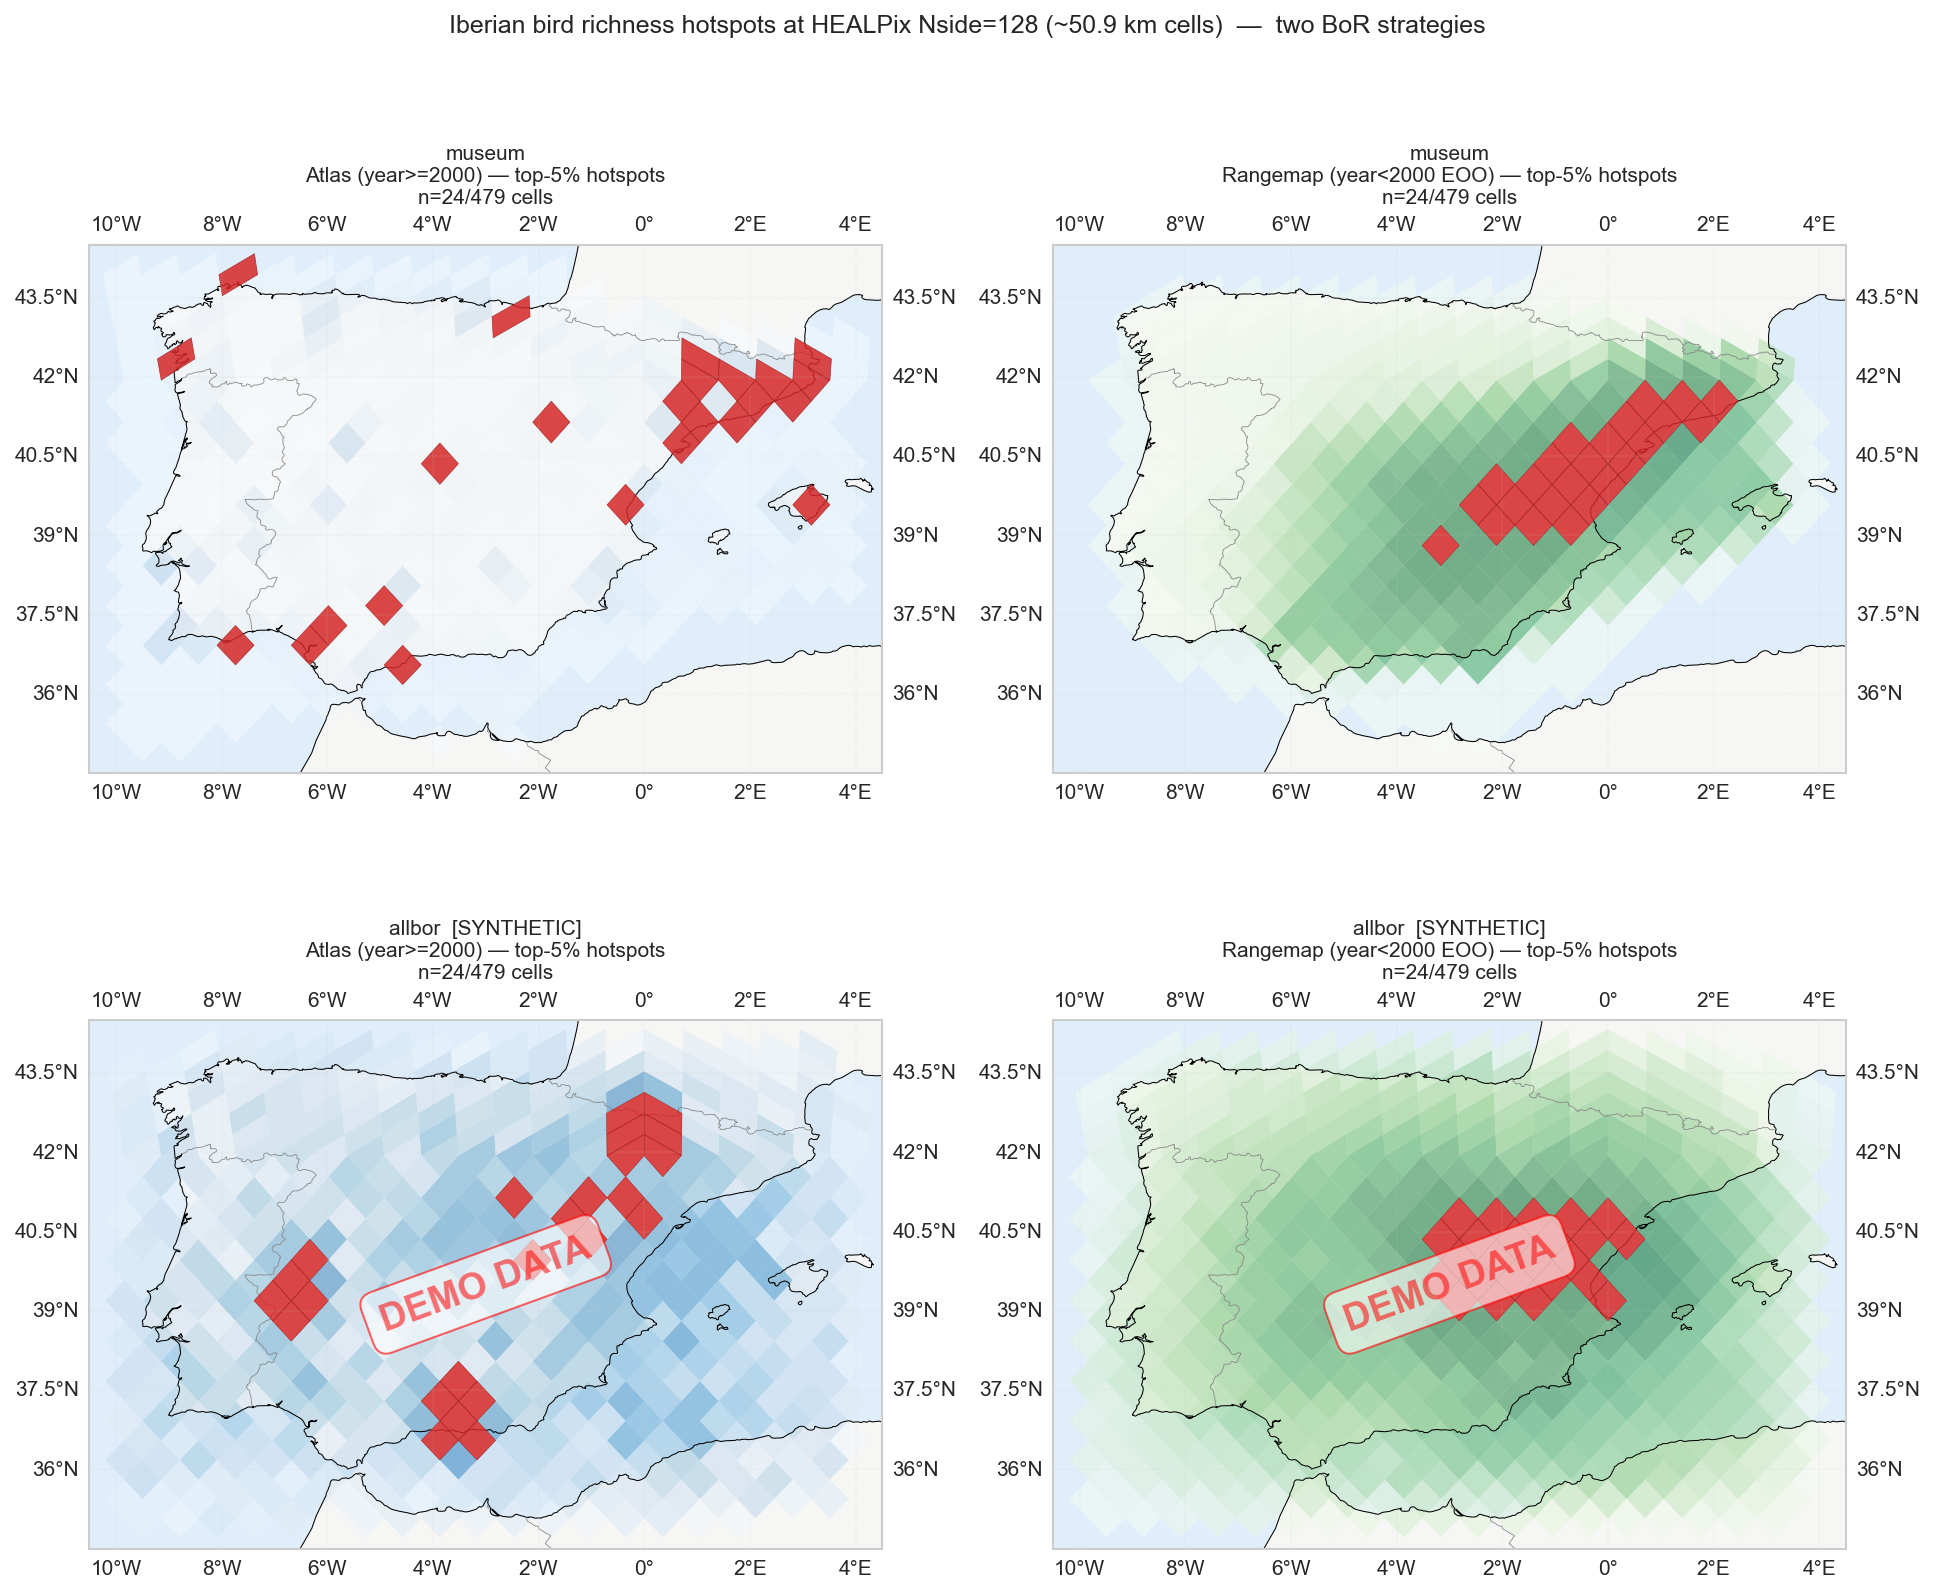
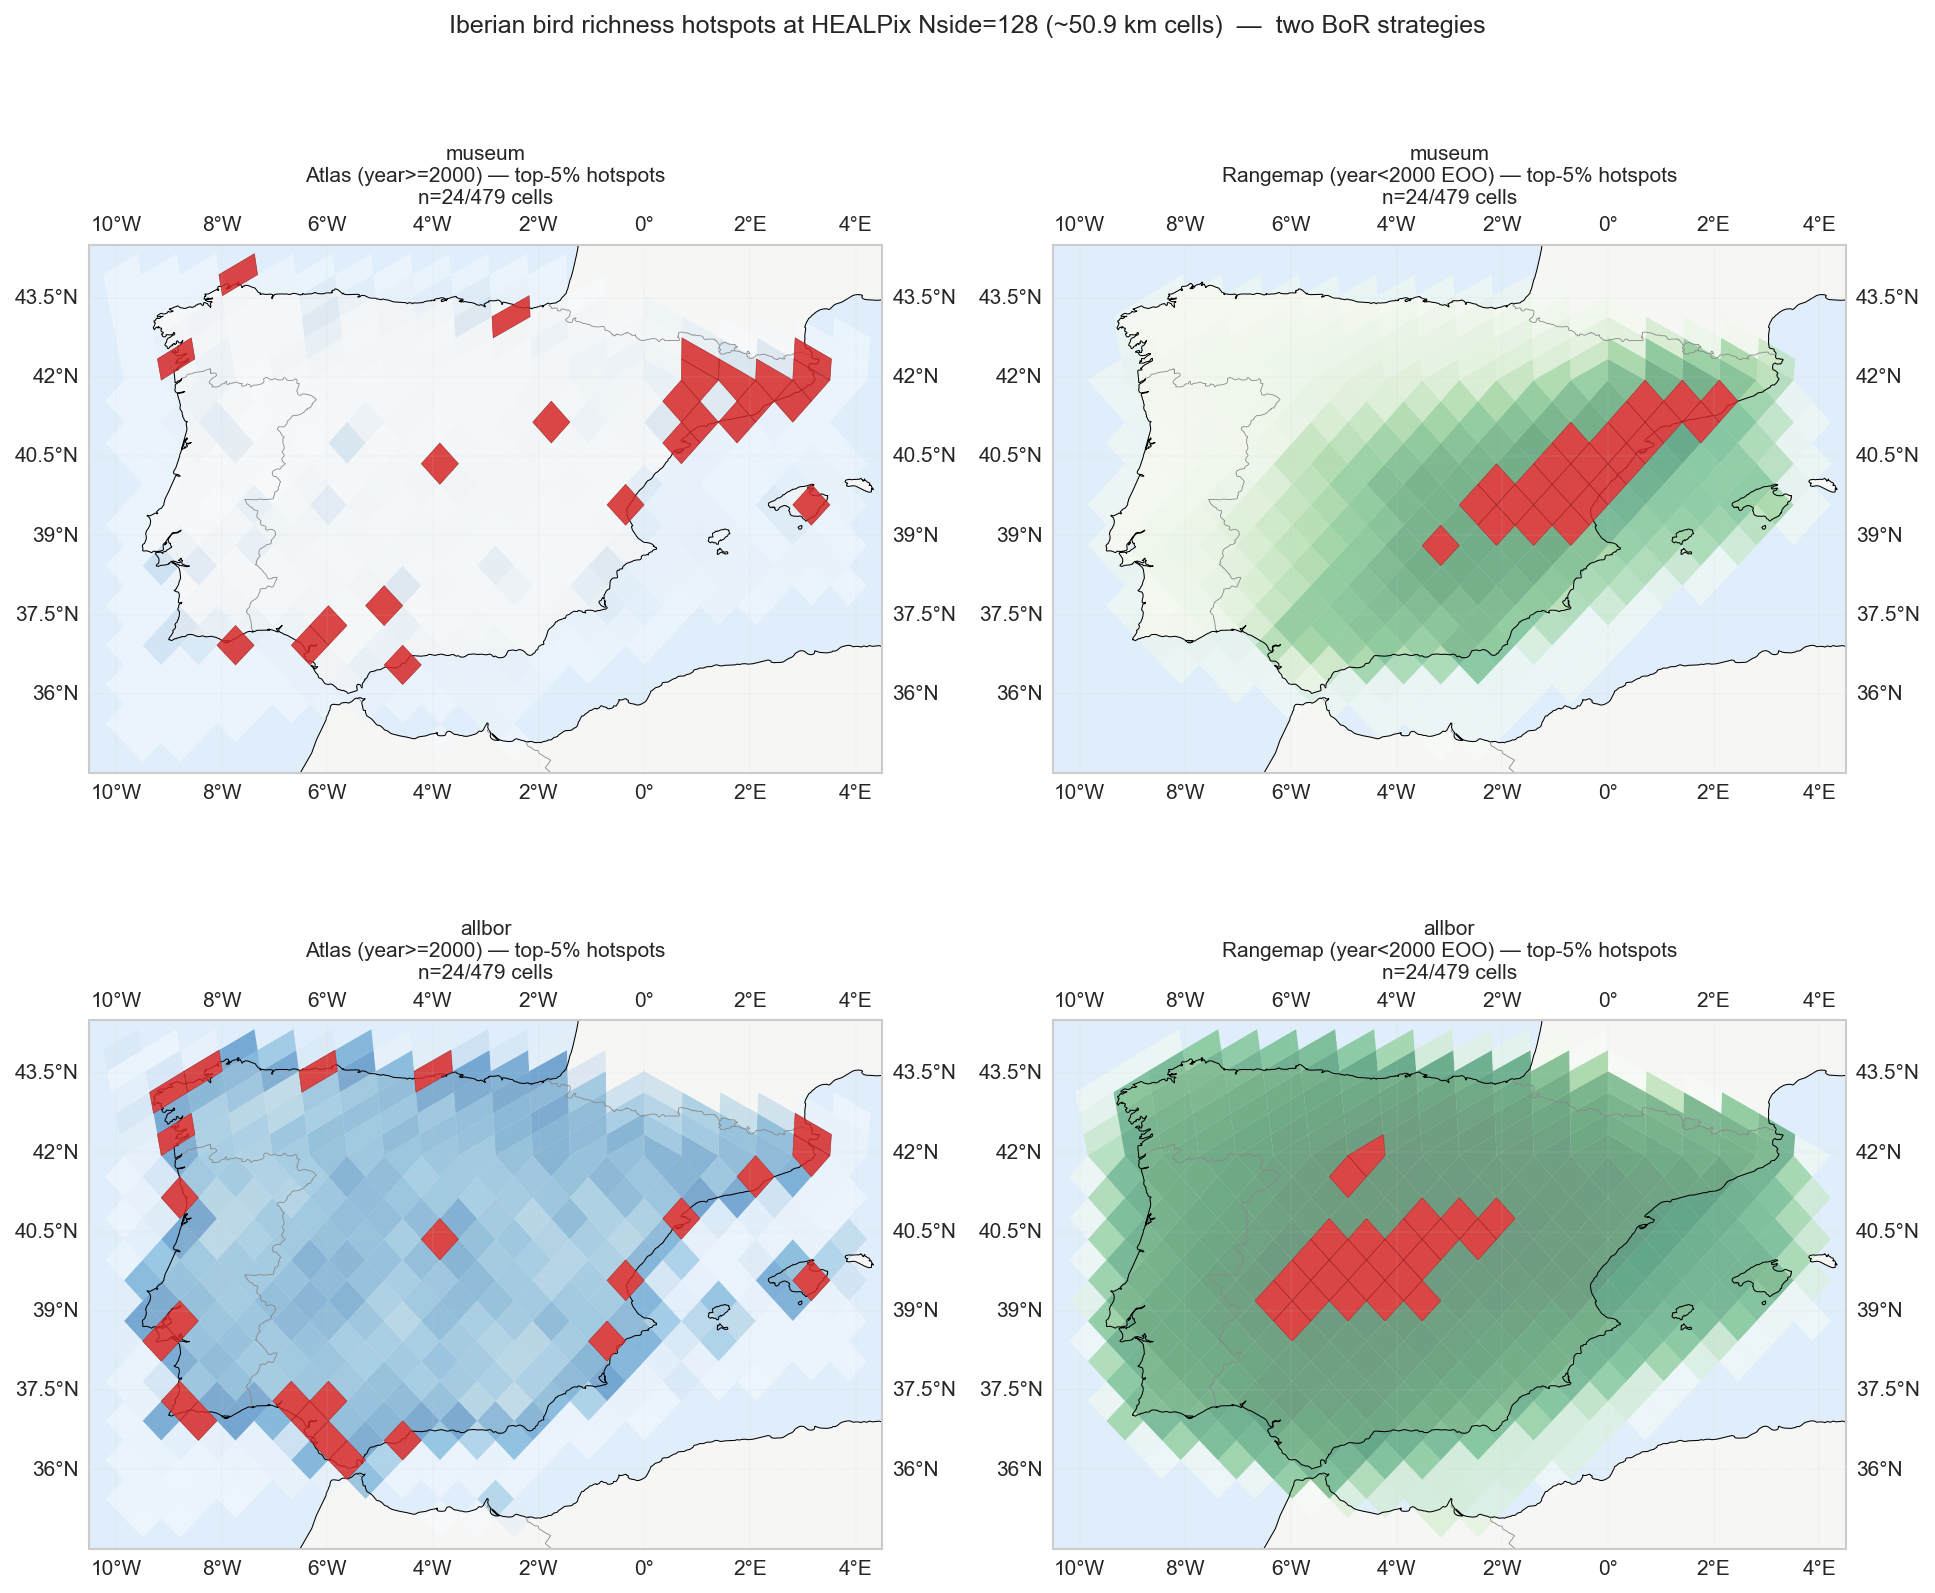
Streaming 02_data_clean to fix two-DOI allbor OOM + pipeline re-run
Switch load_gbif_csv to a chunked iterator (1 M rows/chunk) and fold
per-(strategy, Nside) (cell, species_id) pairs into numpy arrays via
per-chunk np.unique. Historical hull-build accumulates per-species
points. Peak resident is bounded by unique-pair count (~few hundred
MB) rather than the 6.5 GB allbor zip's row count (was ~10+ GB and
killed the kernel on 2026-05-22 — see memory note).

Verified on the two-DOI input: museum (999,958 records, 452 species)
+ allbor (61,703,393 records, 964 species) both produce
data/clean/richness_*.nc + species_eoo_polygons.parquet without OOM
in ~13 min wall-clock. Museum-strategy headline numbers match
dfc2daa exactly (numerical parity). Allbor headline at Nside 256
(H&J 0.25° equivalent): 97.8 % misidentified.

Also: move main_result.png legend to lower-right (was overlapping the
high-Nside replication curves).

diff --git a/notebooks/02_data_clean.py b/notebooks/02_data_clean.py
@@ -57,6 +57,7 @@
 # %%
 import json
 import zipfile
+from collections.abc import Iterator
 from datetime import date
 from pathlib import Path
 
@@ -170,15 +171,27 @@ report["n_cells_per_nside"] = {n: int(len(IBERIA_PIX[n])) for n in NSIDES}
 
 
 # %% [markdown]
-# ## GBIF zip loader
+# ## GBIF zip streaming reader
 #
-# Reads the SIMPLE_CSV inside a GBIF download zip (tab-separated despite
-# the name). Filters to the Iberia bbox and drops rows with missing
-# essentials. Returns one DataFrame for the strategy.
+# Streams the SIMPLE_CSV inside a GBIF download zip (tab-separated
+# despite the name) in chunks of 1 M rows. Each yielded chunk is already
+# NA-dropped on the essentials (species, lat, lon, year) and filtered to
+# the Iberia bbox, so downstream consumers can fold chunks into per-cell
+# and per-species accumulators without ever materialising the whole
+# dataset in memory.
+#
+# Streaming matters because the all-BoR allbor download is ~50–65 M
+# rows (~6.5 GB compressed, ~25–30 GB uncompressed TSV). A one-shot
+# `pd.read_csv` peaks at >10 GB resident and has been observed to crash
+# the kernel on 16 GB laptops (see `memory/pipeline_clean_oom_risk.md`).
 
 # %%
-def load_gbif_csv(zip_path: Path) -> pd.DataFrame:
-    """Extract and read the SIMPLE_CSV inside a GBIF download zip."""
+GBIF_CHUNKSIZE = 1_000_000
+
+
+def iter_gbif_chunks(zip_path: Path,
+                     chunksize: int = GBIF_CHUNKSIZE) -> Iterator[pd.DataFrame]:
+    """Yield NA-dropped, bbox-filtered chunks of a GBIF SIMPLE_CSV zip."""
     if not zip_path.exists():
         raise FileNotFoundError(
             f"Expected GBIF zip at {zip_path} — re-run "
@@ -190,7 +203,7 @@ def load_gbif_csv(zip_path: Path) -> pd.DataFrame:
             raise RuntimeError(f"No CSV inside {zip_path}")
         member = candidates[0]
         with zf.open(member) as src:
-            df = pd.read_csv(
+            reader = pd.read_csv(
                 src, sep="\t",
                 usecols=lambda c: c in {
                     "gbifID", "species", "decimalLatitude",
@@ -199,53 +212,41 @@ def load_gbif_csv(zip_path: Path) -> pd.DataFrame:
                 },
                 dtype={"gbifID": "Int64", "year": "Int64",
                        "countryCode": "string"},
-                low_memory=False, on_bad_lines="skip",
+                chunksize=chunksize, on_bad_lines="skip",
             )
-    # Drop rows missing the essentials (species, lat, lon, year — we need
-    # year for the modern/historical split).
-    df = df.dropna(
-        subset=["species", "decimalLatitude", "decimalLongitude", "year"]
-    ).copy()
-    lon = df["decimalLongitude"].astype(float)
-    lat = df["decimalLatitude"].astype(float)
-    in_bbox = (
-        (lon >= IBERIA_LON_MIN) & (lon <= IBERIA_LON_MAX)
-        & (lat >= IBERIA_LAT_MIN) & (lat <= IBERIA_LAT_MAX)
-    )
-    df = df.loc[in_bbox].reset_index(drop=True)
-    return df
+            for raw in reader:
+                df = raw.dropna(
+                    subset=["species", "decimalLatitude",
+                            "decimalLongitude", "year"]
+                )
+                if df.empty:
+                    continue
+                lon = df["decimalLongitude"].astype(float)
+                lat = df["decimalLatitude"].astype(float)
+                in_bbox = (
+                    (lon >= IBERIA_LON_MIN) & (lon <= IBERIA_LON_MAX)
+                    & (lat >= IBERIA_LAT_MIN) & (lat <= IBERIA_LAT_MAX)
+                )
+                df = df.loc[in_bbox]
+                if df.empty:
+                    continue
+                yield df.reset_index(drop=True)
 
 
 # %% [markdown]
 # ## Per-strategy helpers
 #
-# - `occurrences_to_richness` — per Nside, count distinct species per
-#   HEALPix-NESTED cell. Used for the modern (atlas) frame.
 # - `species_hull` — convex hull of a (lon, lat) point array with
 #   pragmatic fallbacks for n < 3.
 # - `hull_to_cells` — `healpix_geo.nested.polygon_coverage` of the hull.
 # - `historical_cell_counts` — per Nside, per-cell count of species
 #   whose EOO hull covers the cell, restricted to the Iberian cell set.
+#
+# Modern (atlas) per-cell richness is computed inline in the per-strategy
+# streaming loop below, by folding chunked `(cell, species_id)` pairs into
+# per-Nside numpy arrays and then deduplicating once at the end.
 
 # %%
-def occurrences_to_richness(df: pd.DataFrame, nside: int) -> pd.DataFrame:
-    """Per-cell unique-species count at one Nside."""
-    depth = DEPTHS[nside]
-    cells = hp_nested.lonlat_to_healpix(
-        df["decimalLongitude"].astype(float).values,
-        df["decimalLatitude"].astype(float).values,
-        depth, ELLIPSOID,
-    ).astype(np.int64)
-    species = df["species"].values
-    sub = pd.DataFrame({"cell": cells, "species": species})
-    return (
-        sub.drop_duplicates(["cell", "species"])
-           .groupby("cell", as_index=False)
-           .size()
-           .rename(columns={"size": "richness"})
-    )
-
-
 def species_hull(points: np.ndarray) -> Polygon:
     """Convex hull of a (lon, lat) point array with n<3 fallbacks."""
     if len(points) >= 3:
@@ -297,10 +298,21 @@ def historical_cell_counts(species_hulls: dict[str, Polygon],
 
 
 # %% [markdown]
-# ## Process each strategy
+# ## Process each strategy (streaming)
 #
-# Load the zip -> split by year -> per-Nside per-cell richness arrays
-# (atlas + rangemap) -> persist as one NetCDF per strategy.
+# Stream the zip in 1 M-row chunks. Per chunk:
+#
+# - Split on `YEAR_SPLIT` into modern / historical sub-chunks.
+# - For modern: for each Nside, compute the `(cell, species_id)` pairs
+#   and accumulate per-chunk-unique pair arrays into per-Nside lists.
+#   Final per-cell atlas richness = `|distinct species per cell|` after
+#   a single end-of-stream `np.unique` across all chunks.
+# - For historical: accumulate per-species (lon, lat) point arrays into
+#   a dict, then build convex hulls once after the stream completes.
+#
+# This keeps peak memory bounded by `|unique (cell, species) pairs|`
+# (atlas) + `|historical records|` (range-map), rather than by the full
+# row count of the zip.
 
 # %%
 all_eoo_records: list[dict] = []
@@ -312,35 +324,106 @@ for strategy in STRATEGIES:
     zip_path = STRATEGY_ZIPS[strategy]
     nc_path = STRATEGY_RICHNESS_NC[strategy]
 
-    df_all = load_gbif_csv(zip_path)
-    df_modern = df_all[df_all["year"].astype(int) >= YEAR_SPLIT].copy()
-    df_historical = df_all[df_all["year"].astype(int) < YEAR_SPLIT].copy()
-    print(f"  loaded     : {len(df_all):>10,} records, "
-          f"{df_all['species'].nunique()} species "
-          f"(years {int(df_all['year'].min()) if len(df_all) else 'NA'}"
-          f"..{int(df_all['year'].max()) if len(df_all) else 'NA'})")
-    print(f"  modern     : {len(df_modern):>10,} records, "
-          f"{df_modern['species'].nunique()} species  (>= {YEAR_SPLIT})")
-    print(f"  historical : {len(df_historical):>10,} records, "
-          f"{df_historical['species'].nunique()} species  (< {YEAR_SPLIT})")
+    # Per-strategy species → small int ID, so modern pair arrays can stay
+    # as int64×int64 instead of carrying string objects.
+    species_to_id: dict[str, int] = {}
+
+    def _sid(sp: str) -> int:
+        sid = species_to_id.get(sp)
+        if sid is None:
+            sid = len(species_to_id)
+            species_to_id[sp] = sid
+        return sid
+
+    # Modern accumulator: per Nside, list of per-chunk-unique (cell, sid)
+    # int64 pair arrays. Final dedup + per-cell count happens once below.
+    modern_pairs: dict[int, list[np.ndarray]] = {n: [] for n in NSIDES}
+    # Historical accumulator: per species, list of (lon, lat) point arrays.
+    hist_pts: dict[str, list[np.ndarray]] = {}
+
+    n_records_total = 0
+    n_records_modern = 0
+    n_records_historical = 0
+    species_total: set[str] = set()
+    species_modern: set[str] = set()
+    species_historical: set[str] = set()
+    year_min: int | None = None
+    year_max: int | None = None
+
+    for ci, chunk in enumerate(iter_gbif_chunks(zip_path), start=1):
+        n_records_total += len(chunk)
+        years = chunk["year"].astype(int).values
+        cmin, cmax = int(years.min()), int(years.max())
+        year_min = cmin if year_min is None else min(year_min, cmin)
+        year_max = cmax if year_max is None else max(year_max, cmax)
+        species_total.update(chunk["species"].unique().tolist())
+
+        is_modern = years >= YEAR_SPLIT
+        modern_chunk = chunk.loc[is_modern]
+        hist_chunk = chunk.loc[~is_modern]
+        n_records_modern += len(modern_chunk)
+        n_records_historical += len(hist_chunk)
+
+        if len(modern_chunk):
+            species_modern.update(modern_chunk["species"].unique().tolist())
+            mod_lon = modern_chunk["decimalLongitude"].astype(float).values
+            mod_lat = modern_chunk["decimalLatitude"].astype(float).values
+            mod_sp = modern_chunk["species"].values
+            mod_sid = np.fromiter(
+                (_sid(s) for s in mod_sp),
+                dtype=np.int64, count=len(mod_sp),
+            )
+            for nside in NSIDES:
+                cells = hp_nested.lonlat_to_healpix(
+                    mod_lon, mod_lat, DEPTHS[nside], ELLIPSOID,
+                ).astype(np.int64)
+                pairs = np.column_stack([cells, mod_sid])
+                pairs = np.unique(pairs, axis=0)
+                modern_pairs[nside].append(pairs)
+
+        if len(hist_chunk):
+            species_historical.update(hist_chunk["species"].unique().tolist())
+            for sp, grp in hist_chunk.groupby("species", sort=False):
+                pts = (
+                    grp[["decimalLongitude", "decimalLatitude"]]
+                    .astype(float)
+                    .values
+                )
+                hist_pts.setdefault(sp, []).append(pts)
+
+        print(f"  chunk {ci:>3}: +{len(chunk):>8,} rows  "
+              f"(modern +{len(modern_chunk):>8,}, "
+              f"hist +{len(hist_chunk):>7,})  "
+              f"running total: {n_records_total:>11,}")
+
+    print(f"\n  loaded     : {n_records_total:>10,} records, "
+          f"{len(species_total)} species  "
+          f"(years {year_min}..{year_max})")
+    print(f"  modern     : {n_records_modern:>10,} records, "
+          f"{len(species_modern)} species  (>= {YEAR_SPLIT})")
+    print(f"  historical : {n_records_historical:>10,} records, "
+          f"{len(species_historical)} species  (< {YEAR_SPLIT})")
 
     strat_report: dict = {
         "synthetic": SYNTHETIC[strategy],
-        "n_records_total": int(len(df_all)),
-        "n_species_total": int(df_all["species"].nunique()),
-        "n_records_modern": int(len(df_modern)),
-        "n_species_modern": int(df_modern["species"].nunique()),
-        "n_records_historical": int(len(df_historical)),
-        "n_species_historical": int(df_historical["species"].nunique()),
+        "n_records_total": int(n_records_total),
+        "n_species_total": int(len(species_total)),
+        "n_records_modern": int(n_records_modern),
+        "n_species_modern": int(len(species_modern)),
+        "n_records_historical": int(n_records_historical),
+        "n_species_historical": int(len(species_historical)),
+        "year_min": int(year_min) if year_min is not None else None,
+        "year_max": int(year_max) if year_max is not None else None,
     }
 
-    # --- Build per-species EOO hulls from the historical frame ---
+    # --- Build per-species EOO hulls from accumulated historical points ---
     print(f"\n--- Building per-species EOO hulls (historical, {strategy}) ---")
-    species_groups = df_historical.groupby("species")
-    n_species = species_groups.ngroups
     species_hulls: dict[str, Polygon] = {}
-    for i, (sp, grp) in enumerate(species_groups, start=1):
-        pts = grp[["decimalLongitude", "decimalLatitude"]].astype(float).values
+    n_species_eoo = len(hist_pts)
+    sorted_species = sorted(hist_pts.keys())
+    for i, sp in enumerate(sorted_species, start=1):
+        parts = hist_pts.pop(sp)
+        pts = np.vstack(parts) if len(parts) > 1 else parts[0]
         hull = species_hull(pts)
         species_hulls[sp] = hull
         all_eoo_records.append({
@@ -350,10 +433,10 @@ for strategy in STRATEGIES:
             "hull_area_sqdeg": float(hull.area),
             "wkt": hull.wkt,
         })
-        if i % 50 == 0 or i == n_species:
-            print(f"  built hull {i:>4}/{n_species}  ({sp[:32]}, "
+        if i % 50 == 0 or i == n_species_eoo:
+            print(f"  built hull {i:>4}/{n_species_eoo}  ({sp[:32]}, "
                   f"area={hull.area:.2f} deg^2)")
-    strat_report["n_species_with_eoo"] = int(n_species)
+    strat_report["n_species_with_eoo"] = int(n_species_eoo)
 
     # --- Per-Nside per-cell richness for this strategy ---
     print(f"\n--- Cross-tabulating richness per Nside ({strategy}) ---")
@@ -365,8 +448,24 @@ for strategy in STRATEGIES:
         iberian_pix_arr = IBERIA_PIX[nside]
         iberian_set = set(int(p) for p in iberian_pix_arr)
 
-        mod = occurrences_to_richness(df_modern, nside)
-        mod = mod[mod["cell"].isin(iberian_set)].set_index("cell")
+        # Atlas: dedup across chunks, restrict to Iberian cells, then count
+        # distinct species per cell.
+        parts = modern_pairs[nside]
+        if parts:
+            all_pairs = np.vstack(parts) if len(parts) > 1 else parts[0]
+            all_pairs = np.unique(all_pairs, axis=0)
+            mask = np.isin(all_pairs[:, 0], iberian_pix_arr)
+            kept_cells = all_pairs[mask, 0]
+            uniq_cells, counts = np.unique(kept_cells, return_counts=True)
+            mod = pd.DataFrame(
+                {"cell": uniq_cells, "richness": counts}
+            ).astype({"cell": np.int64, "richness": np.int64}).set_index("cell")
+        else:
+            mod = pd.DataFrame(
+                {"cell": [], "richness": []}, dtype=np.int64,
+            ).set_index("cell")
+        # Free per-Nside pair memory now that we've reduced it.
+        modern_pairs[nside] = []
 
         hist = historical_cell_counts(species_hulls, nside, iberian_set).set_index("cell")
 

diff --git a/notebooks/04_figures.py b/notebooks/04_figures.py
@@ -178,7 +178,8 @@ ax.set_title(
     + ("  —  contains SYNTHETIC DEMO DATA" if any_synth else ""),
     fontsize=11,
 )
-ax.legend(loc="upper right", fontsize=8, framealpha=0.92)
+ax.legend(loc="lower right", fontsize=8, framealpha=0.92,
+          borderaxespad=0.6)
 
 # Per-strategy synthetic banner — translucent text in the plot area, one
 # line per synthetic strategy, so the figure honestly tells the reader